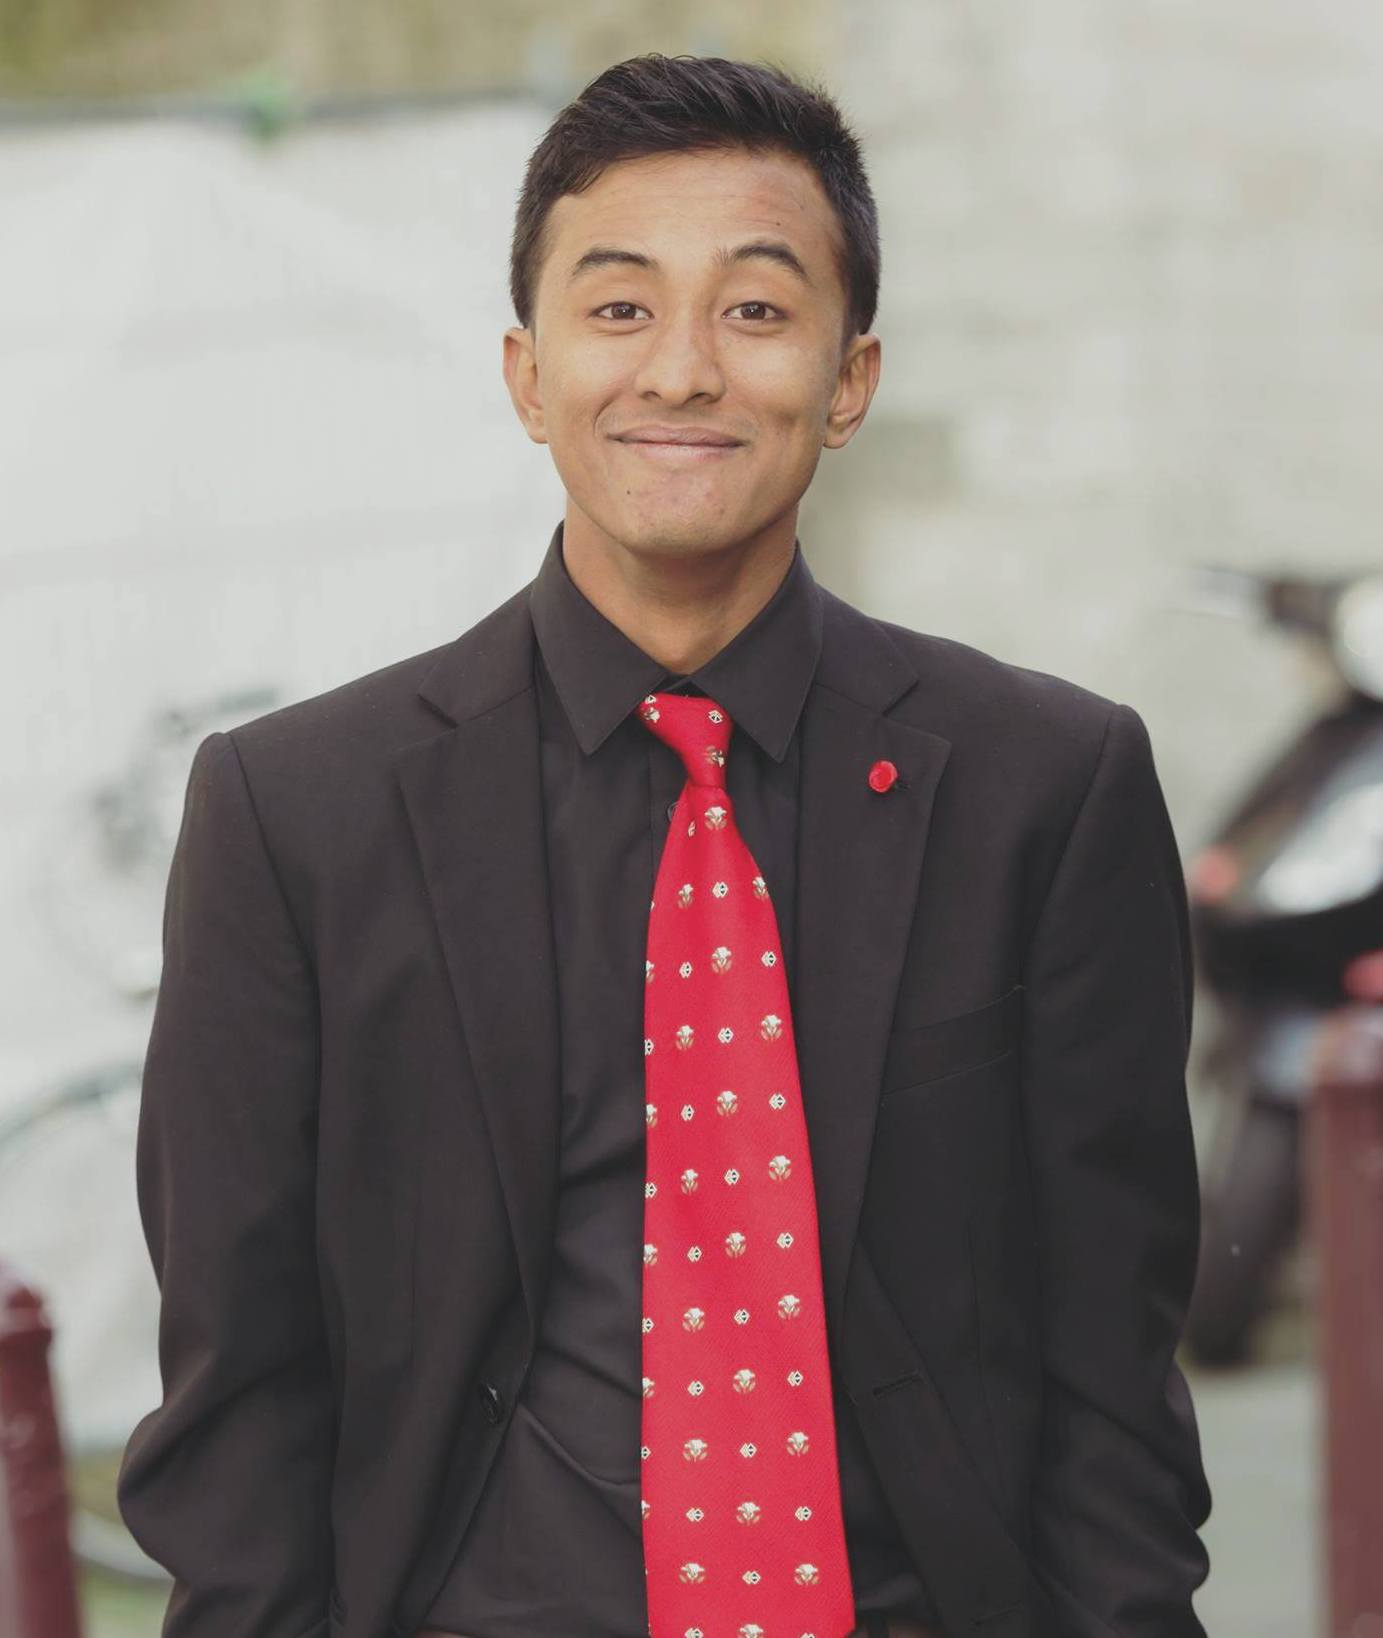
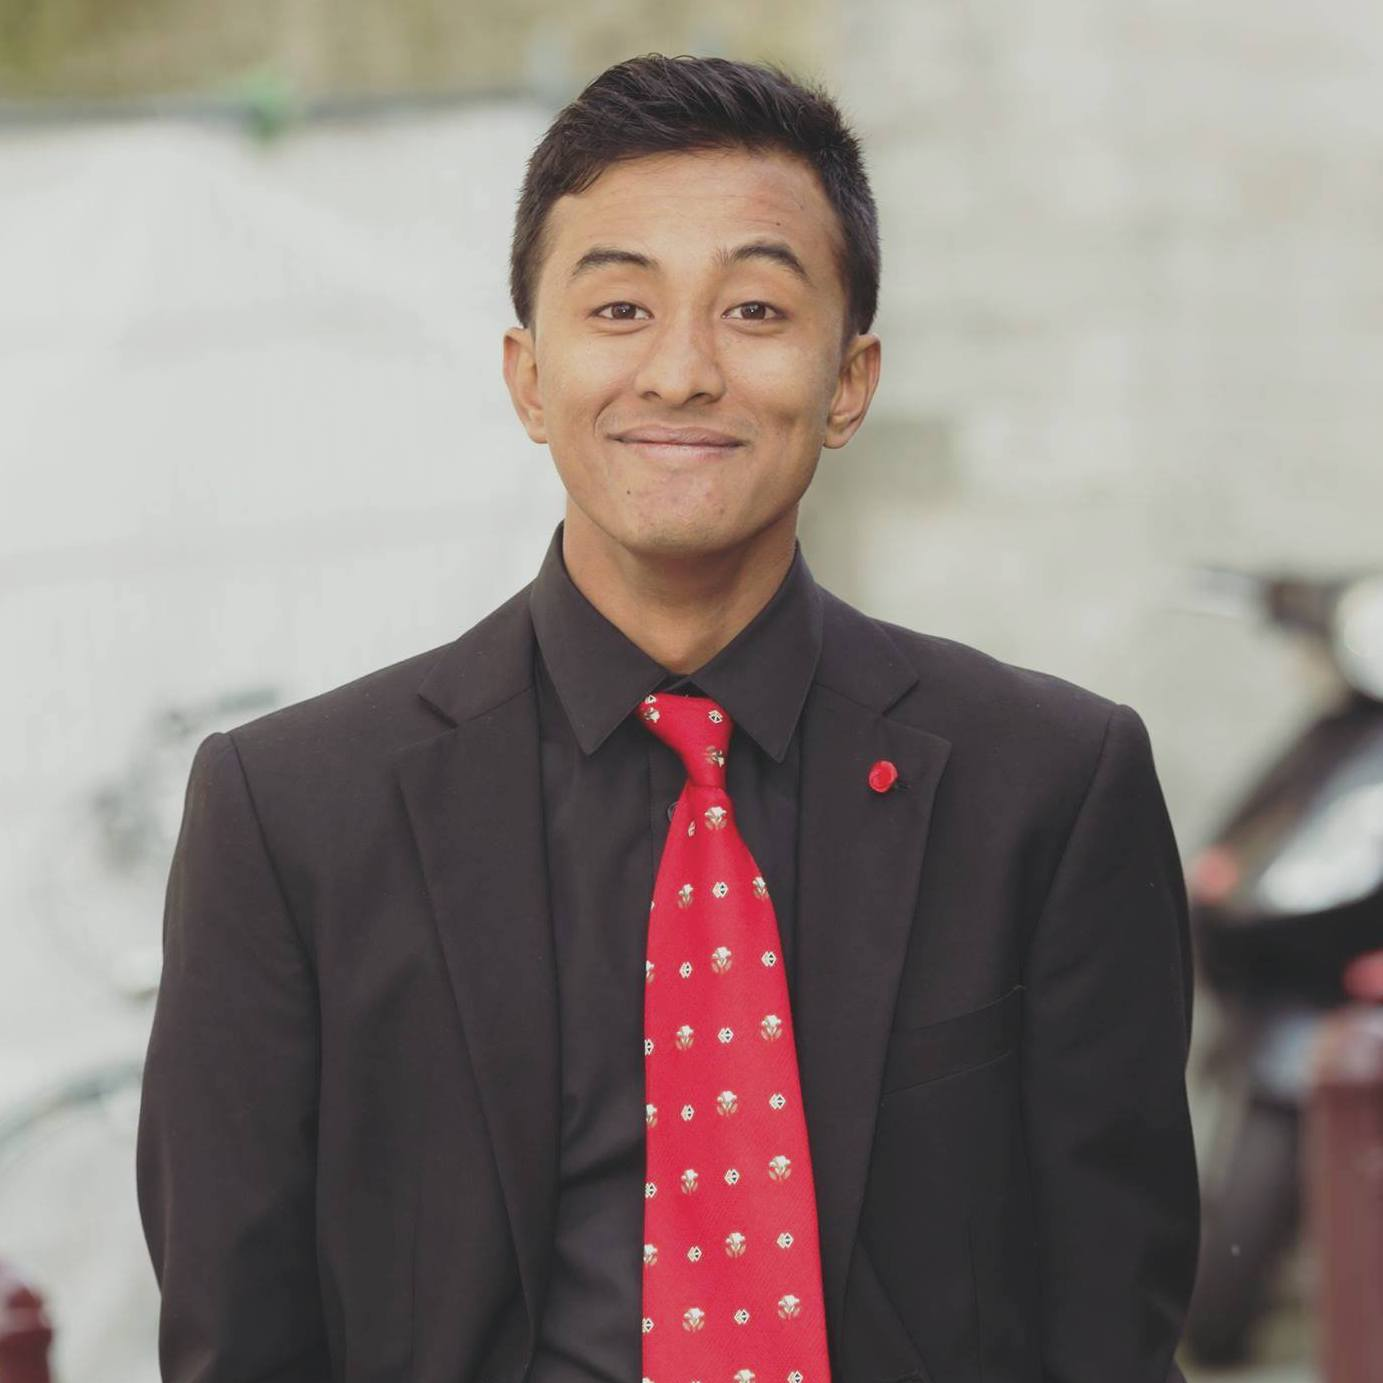
Add Raphael + Crop images

diff --git a/index.html b/index.html
@@ -36,21 +36,21 @@
             <div class="row">
 
                 <div class= "col-3">
-                    <img class = "img-fluid" height = "300" width="300" src="images/Robbe.jpg">
+                    <img class = "img-fluid" src="images/Robbe.jpg">
                     <p>Robbe Heirman</p>
                 </div>
 
                 <div class= "col-3">
-                    <img class = "img-fluid" height = "3325" width="300" src="images/Beau.jpg">
+                    <img class = "img-fluid" src="images/Beau.jpg">
                     <p>Beau De Clerq</p>
                 </div>
 
                 <div class= "col-3">
-                    <img class = "img" height = "250" width="250" src="images/Nishchal.jpg">
+                    <img class = "img-fluid" src="images/Nishchal.jpg">
                     <p>Nishchal Shrestha</p>
                 </div>
                 <div class= "col-3">
-                    <img class = "img" height = "250" width="250" src="images/placeholder.png">
+                    <img class = "img-fluid" src="images/Raphael.jpg">
                     <p>Raphael Assa </p>
                 </div>
             </div>
